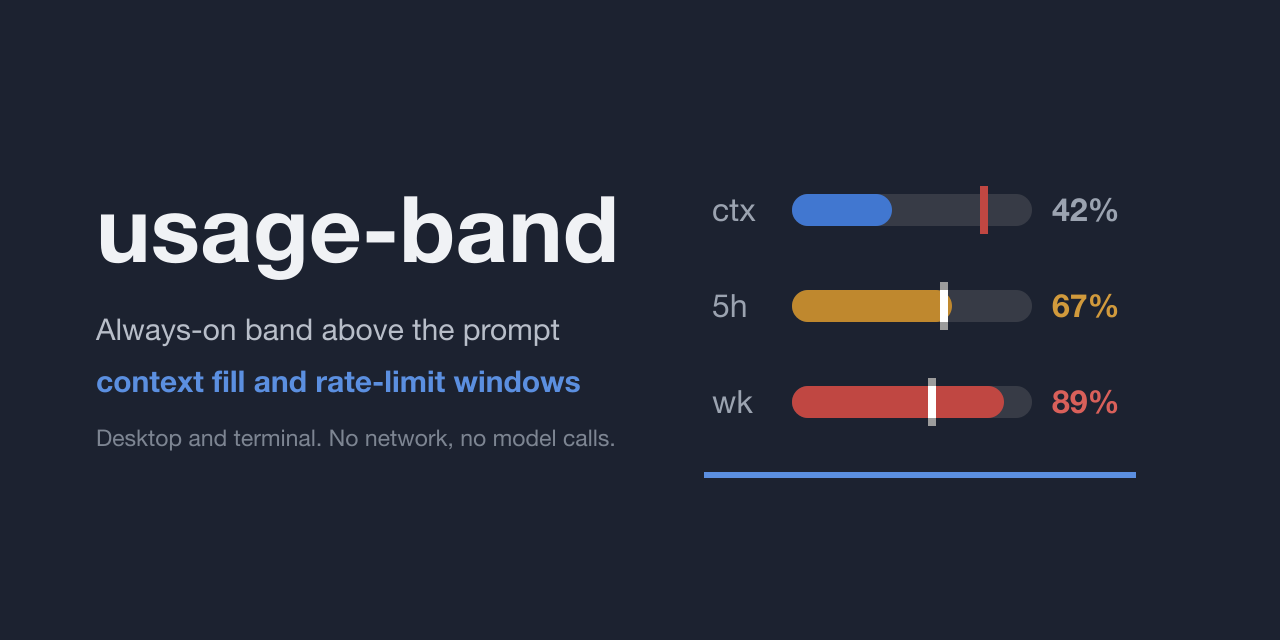
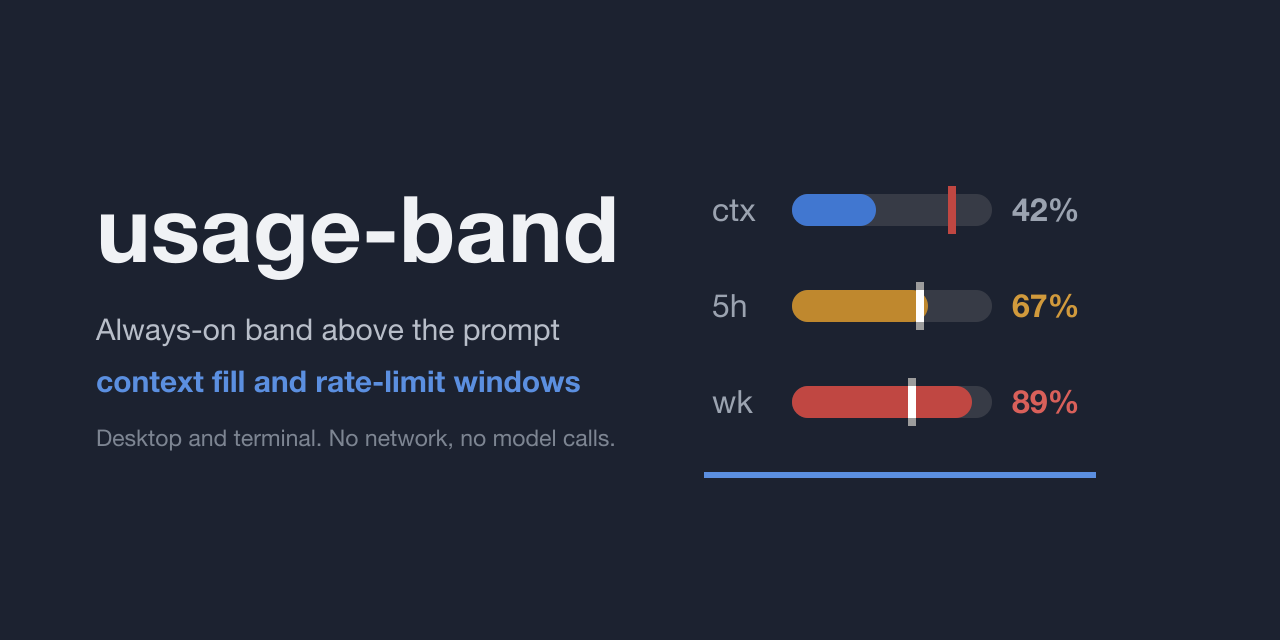
feat: show each window's step on the desktop row and move the cost into a card
The +N% step since your last message sat only in each window's hover
card on the desktop, where it went unseen, even by the mod's author.
It now sits beside the percent on the row, as in the terminal.

The row could not hold it with the cost on it. The cost is the one
figure without an upper bound ($0.31 in a fresh session, $14 a few
hours later), so every width cut so far bought only a few days before
it wrapped again. On the desktop it now opens in a card over `cache`,
written as an API-price estimate, since a plan bills against 5h and wk
instead. With no cache figure to hang the card on, it stays on the row.
The terminal line is unchanged.

The bars go from 60 to 50 px. Measured against a 2x screenshot, the row
then fits two-digit percents, single-digit steps, a 200k context detail
and a six-day countdown in a default-width pane. Three windows at 100%
would still wrap, at which point the session is rate-limited anyway.
The hero drops the cost to match the desktop row.

diff --git a/plugin/tests/band.test.ts b/plugin/tests/band.test.ts
@@ -81,26 +81,29 @@ test('band shows context fill and each rate-limit window with time to reset', as
   expect((await desktop.find({ type: 'Text', text: /^at this speed: 36% at reset$/ }))?.props.color).toBeUndefined()
   const [ctx, fiveHour, wk] = await desktop.findAll({ type: 'Svg' })
   expect(wk?.props.isInteractive).toBeUndefined()
-  expect(ctx?.props.source).toContain('<rect x="47" width="2" height="12" fill="#c04742"/>')
-  expect(fiveHour?.props.source).toContain('<rect x="19" width="2" height="12" fill="#9c9c9c"/>')
+  expect(ctx?.props.source).toContain('<rect x="39" width="2" height="12" fill="#c04742"/>')
+  expect(fiveHour?.props.source).toContain('<rect x="16" width="2" height="12" fill="#9c9c9c"/>')
   expect(await desktop.find({ type: 'Text', text: /^cache 83%$/ })).toBeDefined()
   expect(wk?.props.source).toContain('#c04742')
   // wk's 59% pace tick sits inside its 89% fill: white across the fill, grey stubs above and below.
   expect(wk?.props.source).toContain(
-    '<rect x="34" width="2" height="2" fill="#9c9c9c"/><rect x="34" y="2" width="2" height="8" fill="#fff"/><rect x="34" y="10" width="2" height="2" fill="#9c9c9c"/>',
+    '<rect x="29" width="2" height="2" fill="#9c9c9c"/><rect x="29" y="2" width="2" height="8" fill="#fff"/><rect x="29" y="10" width="2" height="2" fill="#9c9c9c"/>',
   )
   expect((await desktop.find({ type: 'Text', text: /^89%$/ }))?.props.color).toBe('error')
   expect((await desktop.find({ type: 'Text', text: /^42%$/ }))?.props.dimColor).toBe(true)
   expect(await desktop.find({ type: 'Text', text: /^84k\/200k$/ })).toBeDefined()
   expect(await desktop.find({ type: 'Text', text: /^2d21h$/ })).toBeDefined()
   expect(await desktop.find({ type: 'Text', text: /^3h20m$/ })).toBeDefined()
-  expect(await desktop.find({ type: 'Text', text: /^\$1\.23$/ })).toBeDefined()
+  // The cost moved into cache's card: it grows without bound and pushed itself off the row.
+  expect(await desktop.find({ type: 'Text', text: /^\$1\.23$/ })).toBeUndefined()
+  expect(await desktop.find({ type: 'Text', text: /^cost: \$1\.23$/ })).toBeDefined()
+  expect(await desktop.find({ type: 'Text', text: /^at API prices$/ })).toBeDefined()
   await desktop.unmount()
 })
 
 test('a tick level with the fill, or on an empty bar, keeps its own colour', async () => {
-  // 66% and 67% both land on pixel 40: the fill has reached the tick, not passed it.
-  expect(bar(66, [{ percent: 67, color: '#9c9c9c' }])).toContain('<rect x="39" width="2" height="12" fill="#9c9c9c"/>')
+  // 65% and 66% both land on pixel 33: the fill has reached the tick, not passed it.
+  expect(bar(65, [{ percent: 66, color: '#9c9c9c' }])).toContain('<rect x="32" width="2" height="12" fill="#9c9c9c"/>')
   expect(bar(0, [{ percent: 0, color: '#9c9c9c' }])).toContain('<rect x="0" width="2" height="12" fill="#9c9c9c"/>')
   expect(bar(0, [{ percent: 0, color: '#9c9c9c' }])).not.toContain('#fff')
 })
@@ -223,8 +226,7 @@ test('a rate-limit window shows how far it moved since your last message, until 
   expect(fiveHour?.props.alt).toMatch(/^5h: 13% used · since your last message: \+1% · time passed: 33% · /)
   expect(wk?.props.alt).not.toContain('since your last message')
   expect(await desktop.find({ type: 'Text', text: /^since your last message: \+1%$/ })).toBeDefined()
-  // In the card only: two more figures on the row push the cost onto a second line in a default-width pane.
-  expect(await desktop.find({ type: 'Text', text: /^\+1%$/ })).toBeUndefined()
+  expect((await desktop.findAll({ type: 'Text', text: /^\+/ })).map(t => t.text)).toEqual(['+1%'])
   await desktop.unmount()
 
   // A background agent's report starts a main turn of its own, through a submission that is not yours.
@@ -418,11 +420,28 @@ test('desktop band wraps its meters in a narrow pane instead of overlapping them
   })
 
   const desktop = await $.ui.mount({ ...BAND, surface: 'desktop' })
-  // One wrap row for meters, cache and cost: a nested wrap row pushed the cost onto a line of its own.
+  // One wrap row for meters and cache: a nested wrap row took a whole line once it overflowed.
   const rows = (await desktop.findAll({ type: 'Box' })).filter(b => b.props.flexWrap !== undefined)
   expect(rows.map(b => [b.props.flexWrap, b.props.rowGap])).toEqual([['wrap', 1]])
-  const cost = (await desktop.findAll({ type: 'Box' })).filter(b => b.props.flexGrow === 1)
-  expect(cost.map(b => b.props.justifyContent)).toEqual(['flex-end'])
+  expect((await desktop.findAll({ type: 'Box' })).filter(b => b.props.flexGrow !== undefined)).toEqual([])
+  await desktop.unmount()
+})
+
+test('desktop band keeps the cost on the row while there is no cache figure to hang its card on', async ($, on) => {
+  mock.clock(on, { now: NOW })
+  on('session.measure', (_, e) => ({ changed: e.changed }))
+  on('session.usage', () => ({ value: { startedAt: NOW, context: { tokens: 84000, window: 200000, percent: 42 }, rateLimits: [] } }))
+  on('ui.render', ($, e) => $.ui.resolve(e).Box({}))
+  await $.session.measure({
+    context: { tokens: 84000, window: 200000, percent: 42 },
+    rateLimits: [],
+    cost: { usd: 1.234 },
+    changed: ['context'],
+  })
+
+  const desktop = await $.ui.mount({ ...BAND, surface: 'desktop' })
+  expect(await desktop.find({ type: 'Text', text: /^\$1\.23$/ })).toBeDefined()
+  expect(await desktop.find({ type: 'Text', text: /^cost: / })).toBeUndefined()
   await desktop.unmount()
 })
 

diff --git a/plugin/hooks/register.tsx b/plugin/hooks/register.tsx
@@ -232,7 +232,6 @@ export const register: Register = on => {
           title: `${label}: ${used}% used`,
           percent: used,
           detail: reset,
-          // The desktop shows it in the card only: two more figures on the row push the cost onto a second line.
           moved,
           extra: [
             ...(moved === '' ? [] : [line(`since your last message: ${moved}`)]),
@@ -291,6 +290,7 @@ export const register: Register = on => {
               ) : (
                 <Text color={TEXT_COLOR[tone(m.percent)]}>{m.percent}%</Text>
               )}
+              {m.moved && <Text dimColor>{m.moved}</Text>}
               {m.detail && <Text dimColor>{m.detail}</Text>}
               {m.extra.length + m.parts.length > 0 && (
                 // The desktop pops an absolute hover reveal above its keyed Box as a bordered card, whatever the offsets.
@@ -313,10 +313,17 @@ export const register: Register = on => {
               )}
             </Box>
           ))}
-          {cache && <Text dimColor>{cache}</Text>}
-          {cost && (
-            <Box flexDirection="row" flexGrow={1} justifyContent="flex-end">
-              <Text dimColor>{cost}</Text>
+          {/* The cost grows without bound and pushed itself off the row, so it waits in cache's card; with no cache, on the row. */}
+          {(cache || cost) && (
+            <Box key="cache" flexDirection="row" alignItems="center">
+              <Text dimColor>{cache || cost}</Text>
+              {cache && cost && (
+                <Box position="absolute" top={0} left={0} display="none" hover={{ display: 'flex' }} flexDirection="column">
+                  <Text>{`cost: ${cost}`}</Text>
+                  <Text dimColor>at API prices</Text>
+                  <Text dimColor>on a plan, 5h and wk are what count</Text>
+                </Box>
+              )}
             </Box>
           )}
         </Box>

diff --git a/plugin/hooks/bar.ts b/plugin/hooks/bar.ts
@@ -5,8 +5,8 @@ export const tone = (percent: number) => (percent >= 85 ? 'over' : percent >= 60
 const FILL = { calm: '#4177d0', hot: '#bf882e', over: '#c04742' } as const
 export const PACE_TICK = '#9c9c9c'
 export const COMPACT_TICK = '#c04742'
-// Three bars share the 768 px desktop row: at 80 the cost wrapped off it by a pixel or two.
-export const BAR = { width: 60, height: 8, tick: 12 }
+// Three bars share the 768 px desktop row with the +N% steps: at 60 the cost wrapped off it once both windows moved.
+export const BAR = { width: 50, height: 8, tick: 12 }
 
 export const clampPct = (p: number) => Math.min(100, Math.max(0, p))
 const at = (percent: number) => Math.round((clampPct(percent) / 100) * BAR.width)

diff --git a/README.md b/README.md
@@ -4,7 +4,7 @@
 
 [![CI: check](https://github.com/zexion7873/usage-band/actions/workflows/check.yml/badge.svg)](https://github.com/zexion7873/usage-band/actions/workflows/check.yml)
 
-<img src="docs/band.svg" width="686" title="Drawn by the mod's own bar() from sample figures — not a screenshot." alt="The usage band, drawn by the mod's own bar() from sample figures rather than a screenshot: ctx at 42% with 84k of 200k tokens and a red tick at the 80% auto-compact point, 5h at 67% in amber with 1h48m to reset and its pace tick at 64% drawn white where the fill covers it, wk at 89% in red with 2d21h to reset and its pace tick at 59% likewise white, then cache 83% and $1.23.">
+<img src="docs/band.svg" width="579" title="Drawn by the mod's own bar() from sample figures — not a screenshot." alt="The usage band, drawn by the mod's own bar() from sample figures rather than a screenshot: ctx at 42% with 84k of 200k tokens and a red tick at the 80% auto-compact point, 5h at 67% in amber with 1h48m to reset and its pace tick at 64% drawn white where the fill covers it, wk at 89% in red with 2d21h to reset and its pace tick at 59% likewise white, then cache 83%.">
 
 **Context fill and every rate-limit window, always on, right above the Claude
 Code prompt — in the desktop app's Code tab as well as the terminal.**
@@ -57,10 +57,10 @@ tab cannot run `/plugin` itself, so install from a terminal once.
 |   | Item | Meaning |
 |:-:|------|---------|
 | 🧠 | **`ctx`** | Context window fill, `tokens/window` beside it. A red tick marks where auto-compact triggers, white where the fill has passed it. |
-| ⏱ | **`5h`**, **`wk`** | Each rate-limit window: percent used and time until it resets. A grey tick marks the share of the window already elapsed, white where the fill has passed it — a fill past the tick is burning faster than an even pace. Once a window has moved since your last message, `+N%` says how far — in the terminal line, and in the window's card on the desktop. The windows are the account's, so every session on it counts toward that step, not only this one. |
+| ⏱ | **`5h`**, **`wk`** | Each rate-limit window: percent used and time until it resets. A grey tick marks the share of the window already elapsed, white where the fill has passed it — a fill past the tick is burning faster than an even pace. Once a window has moved since your last message, `+N%` beside its percent says how far, and the window's card on the desktop repeats it. The windows are the account's, so every session on it counts toward that step, not only this one. |
 | 💳 | **`spend`** | The spend limit, when the account has one. |
 | ♻ | **`cache N%`** | Cache reads as a share of all input tokens in the last response. |
-| 💵 | **`$N.NN`** | Session cost at API token prices. On a subscription this is not what you are billed — your plan counts against the `5h` / `wk` limits. |
+| 💵 | **`$N.NN`** | Session cost at API token prices. On a subscription this is not what you are billed — your plan counts against the `5h` / `wk` limits. On the desktop it is in the card that opens over `cache`, so the meters keep one row however large it grows. |
 
 Percent turns amber at 60% and red at 85%.
 

diff --git a/AGENTS.md b/AGENTS.md
@@ -73,8 +73,10 @@ reds one is a change in behaviour, not a test to update.
   last measure: one also fires whenever a window crosses a whole point, and
   readings come whole, so the turn's final step was always 0. Not from
   `turn.start`: a background agent's report starts a main turn of its own (its
-  submission's origin is `peer`). On the desktop the step is in the card only;
-  inline, two more figures push the cost onto a second row.
+  submission's origin is `peer`). The desktop shows the step on the row as well
+  as in the card. That row fits one line in a default-width pane only with
+  `BAR.width` at 50 and the cost moved into cache's card: the cost grows
+  without bound, so on the row it wraps sooner or later.
 
 Two more have no test yet:
 
